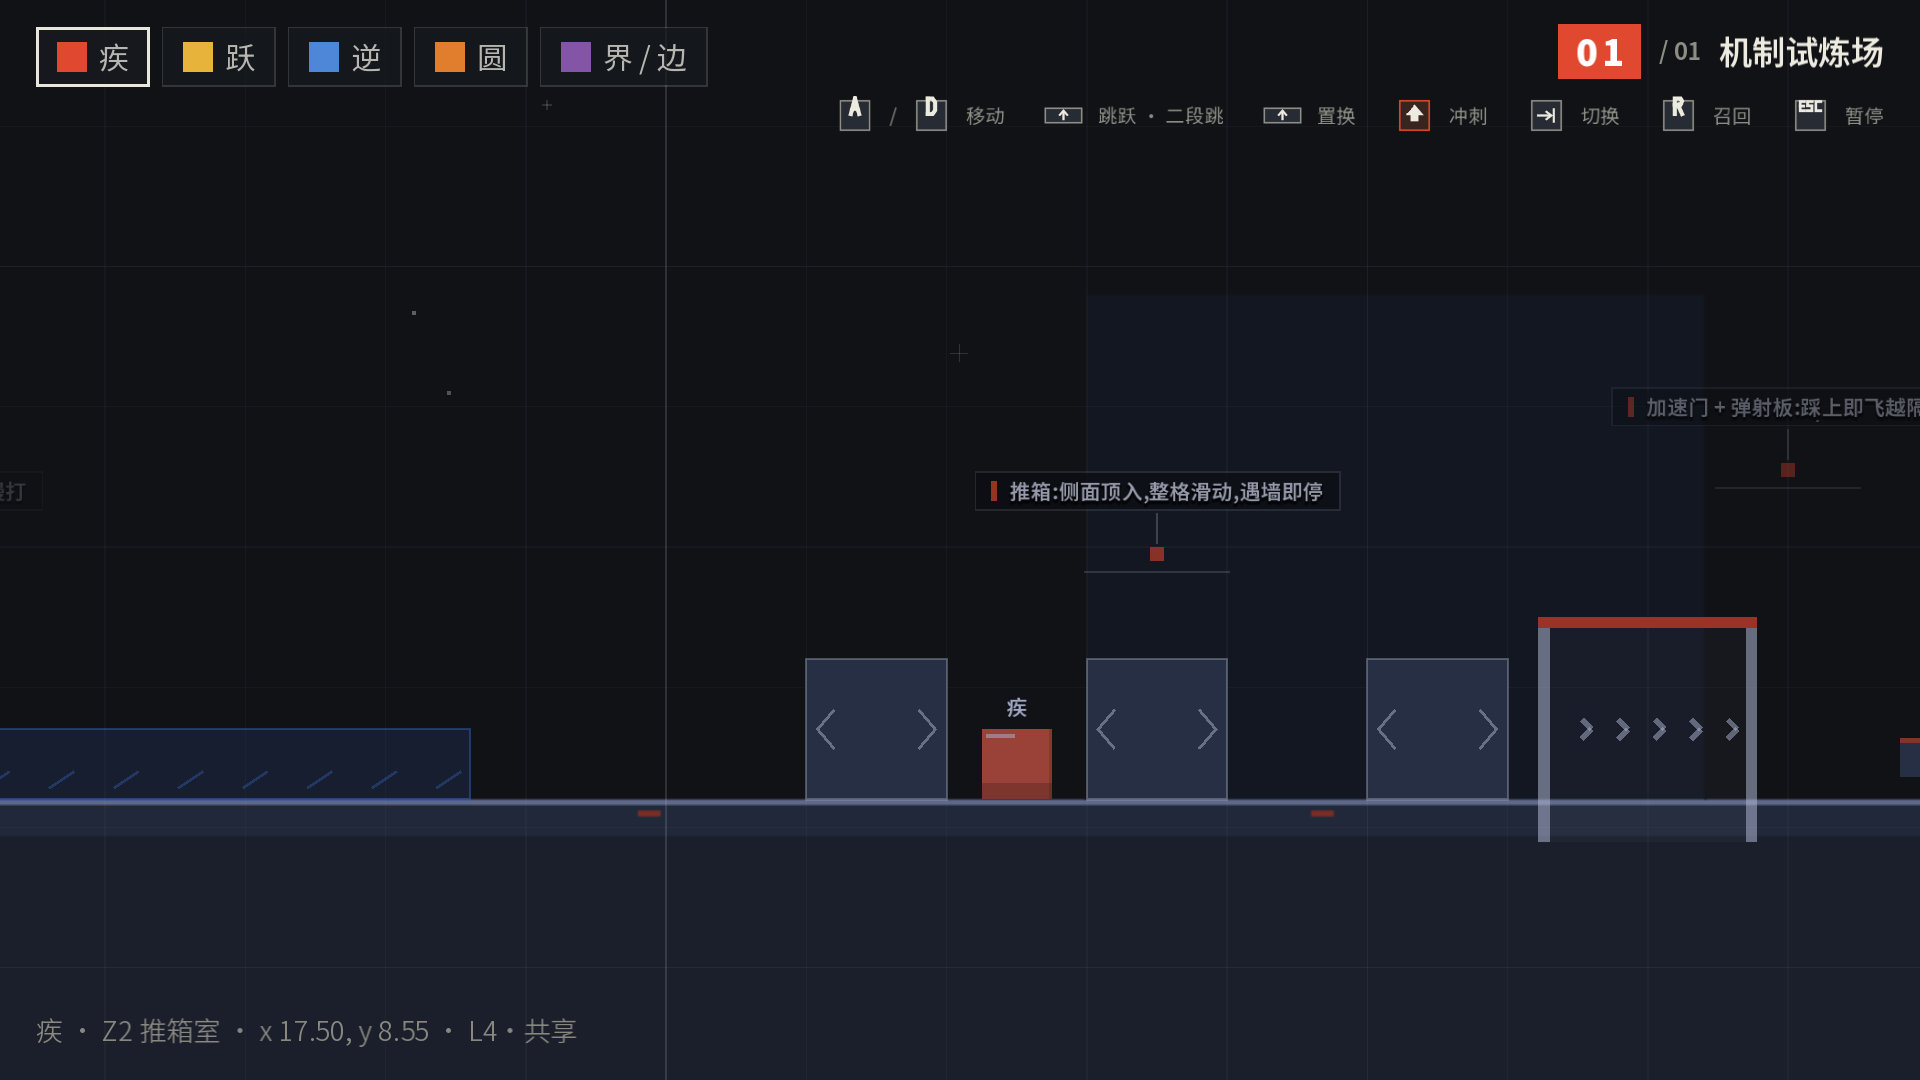
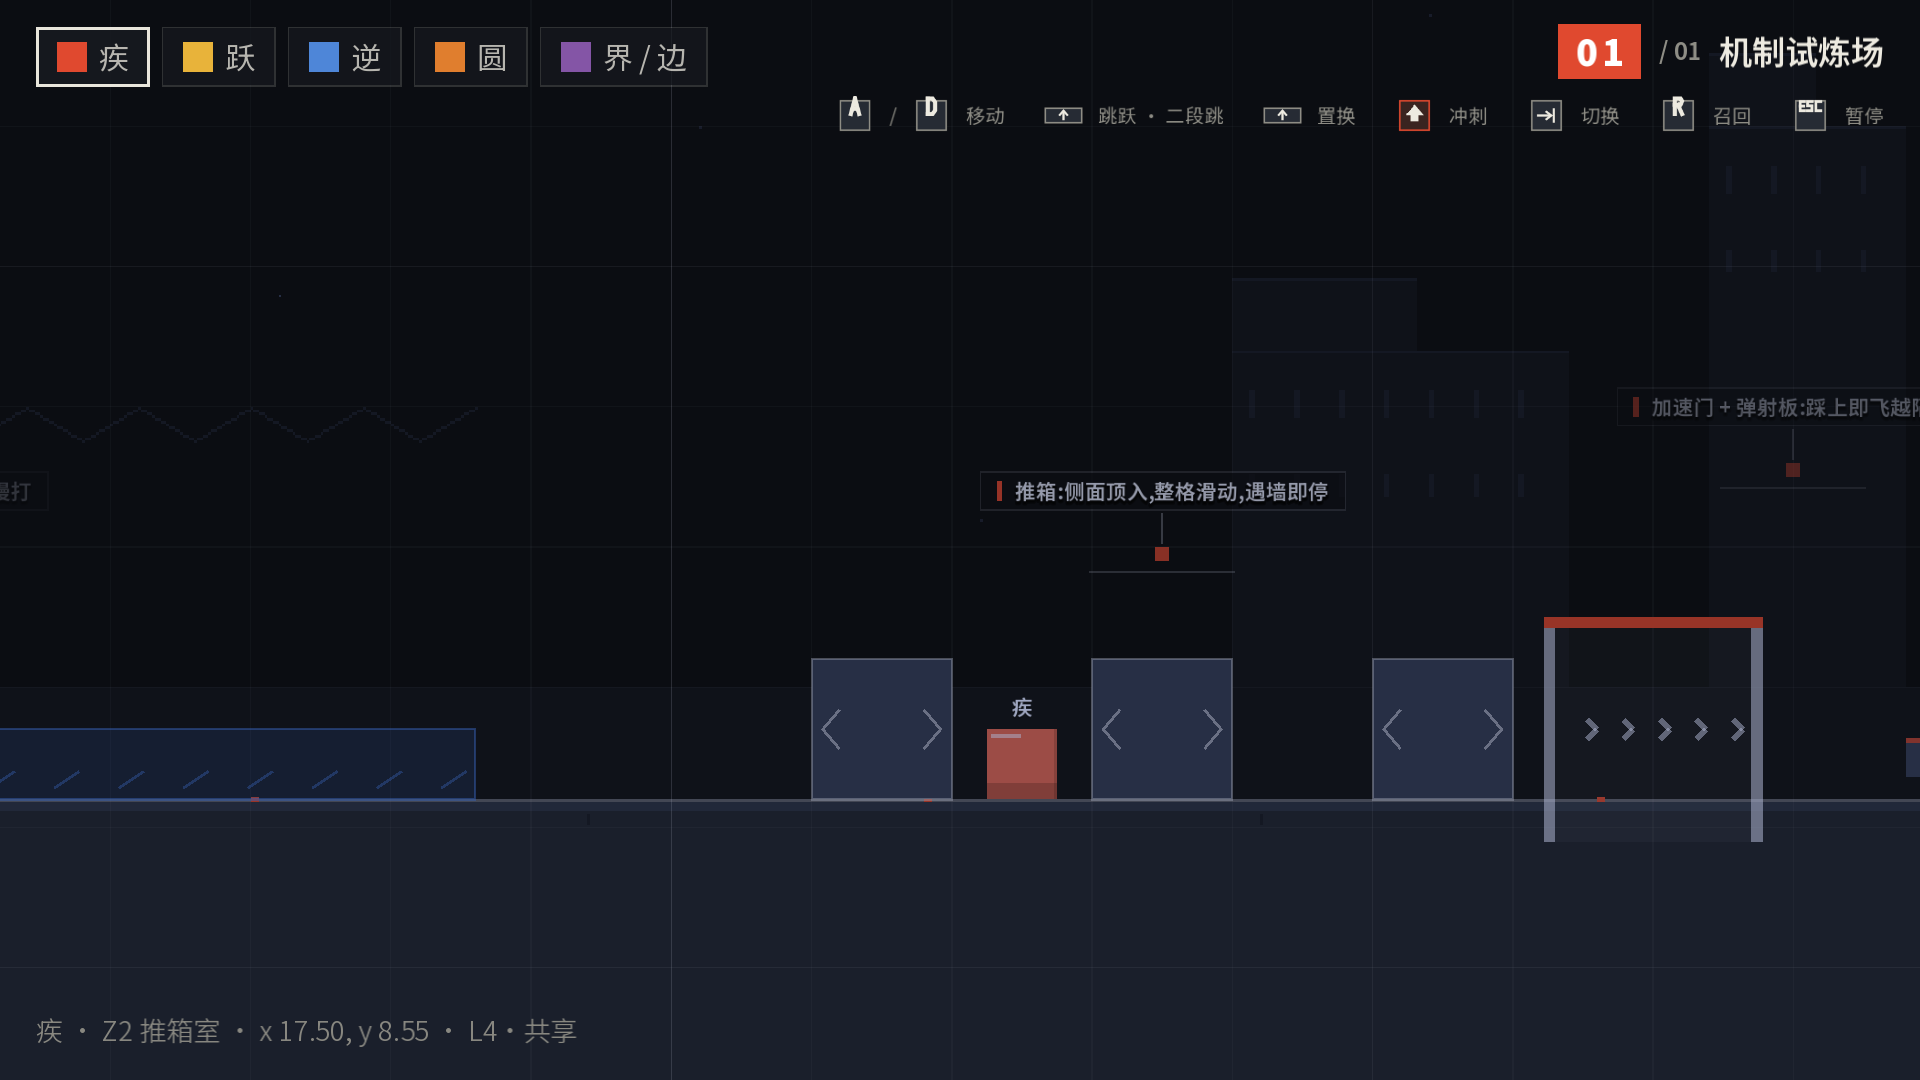
N2 同网直连实装 + 双人入口按设备分流(v0.29.0):「双人试炼」点击先判断设备——桌面给同设备/跨设备两项,触屏设备同设备置灰(移动端不可用,§3 首版条款交互化);新 NetRoomLayer 房间流程页(流程带 30,Flow 型四步:选择→创建(本机 IP 常驻+满员解锁开演)→加入(附近房间周期搜索+版本/满员门禁+手动 IP 兜底)→已连接等待),Esc 逐级返回;Main 增 ROOM 态与 net_* 六回调(绑定集点亮/客机取景镜像/召回主机执行/通关回房间不自动进下一关/客机掉线弹回房间/主机掉线弹回菜单),事件漏斗=死亡/到站/离站/进门主机权威 RPC 复现,客

Changed region(s): [[0.0, 0.5806, 1.0, 0.7639], [0.5, 0.4278, 0.6875, 0.5194], [0.8438, 0.3667, 1.0, 0.3972]]

diff --git a/docs/design/art-style.md b/docs/design/art-style.md
@@ -69,17 +69,19 @@ M8b 补充档 ≤12px 限巨构大落差坠落 / 复合事件(实机手感回写
 - [ ] 动效缓动在 M1 白名单内;时长符合 M2 档位
 - [ ] 红色使用点每屏 ≤ 3 处角色(强调、刻度、焦点各一)
 - [ ] 图标含 `<text>` 的为 0(ThorVG 限制)
-- [ ] 地图零贴图:全部 `_draw()` 程序化绘制;aseprite 瓦片管线已废止(§6),无游离的像素素材引用
-- [ ] 唯一像素素材例外 = 档案几何 UI 插图(§6.1):仅 assets/archive/,
-	  地图与实体不得引用
+- [ ] 地图渲染两轨:默认全 `_draw()` 程序化;测试关可挂 aseprite 地图皮
+	  MapSkin(§6.2,唯一贴图地形管线);除此之外无游离的像素素材引用
+- [ ] aseprite 例外两处 = 档案几何插图(§6.1,仅 assets/archive/)+
+	  关卡地图皮(§6.2,仅 assets/levels/,PNG 必须半分辨率);
+	  地图与实体不得引用其余像素素材
 
-## 6. 美术素材规范 · MAP ART(v0.13.2 修订:全程序化,aseprite 管线废止)
+## 6. 美术素材规范 · MAP ART(v0.29 修订:程序化为默认 + MapSkin 测试关例外)
 
-> 状态:**现行(v0.13.2)**。2026-09-09 用户决策:地图依旧**全部使用
-> `_draw()` 程序化绘制**,不再使用 aseprite 内容——v0.12 绘制的瓦片
-> 图集与实体雪碧图管线(源 `assets/art/tiles/*.aseprite`、存档
-> `assets/tiles/*.png`)整体废止,源文件留档但**不再导入引擎、不再维护**
-> (目录已加 `.gdignore`,不进导出包)。本文保留渲染语义规范:
+> 状态:**现行(v0.29)**。默认管线仍是 `_draw()` 程序化绘制(2026-09-09
+> 用户决策);v0.27 起"测试关美术层"以 **MapSkin 地图皮**形式回归为
+> **唯一贴图地形例外**(用户指令"测试关全部重制,地图采用 aseprite 绘制"),
+> v0.29 把契约成文并修复双倍放大遗留 bug。档案插图例外见 §6.1,
+> 地图皮契约见 §6.2。
 
 ### 6.1 唯一例外:档案几何插图(v0.19 立)
 
@@ -101,8 +103,45 @@ M8b 补充档 ≤12px 限巨构大落差坠落 / 复合事件(实机手感回写
   导出后缀 _f2/_f3;图鉴以 Timer 按条目周期播放,静态两态机关仍为
   手动切换的静帧。
 
-- **地图渲染 = 引擎侧 `_draw()`(唯一管线)**:平台 / 曲面 / 移动构件 /
-  动态构件 / 网格全部由 `level_builder.gd` 程序化绘制;
+### 6.2 关卡地图皮 · MAPSKIN(v0.29 契约成文;v0.27 首例)
+
+- **定位**:测试关美术层例外——`LevelDef.art` 非空时,aseprite 地图皮
+  接管**地形外观**,`LaneRenderer` 让位;碰撞照走平台组件,机关物 /
+  玩家仍引擎 `_draw()`(structures.md §0.5 双轨之测试关例外)。
+  仅用于机制试炼场;正式关卡是否启用待机制期后另行决策。
+- **管线与尺寸契约(严格)**:`assets/art/levels/<level>.aseprite` 源
+  → 导出 PNG 至 `assets/levels/<level>.png` → 引擎 Sprite2D
+  (`scale ×2`,`TEXTURE_FILTER_NEAREST`,`z=-1` 沉到网格下)。
+  **PNG = 半分辨率 = 关卡世界尺寸 ÷2**(1 aseprite 像素 = 2 引擎像素);
+  严禁导出全分辨率(v0.27 曾因此双倍放大,2026-09-12 探针帧实证修复)。
+  换 PNG 内容后必须重跑 `--headless --import`。
+- **画布层栈(自底向上,首例 trial_v5)**:
+  1. `bg_deep` — 墨底 + 硬边值阶横带(禁渐变,用值阶做氛围梯度;
+	 目标区可整体提亮一至两档,如 Z5 归门光柱);
+  2. `bg_towers` — 远景退台巨塔剪影(INK_2 体 + INK_3 顶缘/窗槽,
+	 与 Backdrop 折线山脊同档,不得更高);
+  3. `bg_mid` — 世界线构:管线 / 桁架(折线禁弧)/ 区段纹样
+	 (雪原折线 / 推箱导轨)/ 传送菱标 / 地标环(完整几何圆,允许);
+  4. `terrain` — 石板本体 `#262B34` + 内缘受光带 `#313845` + 板缝 +
+	 悬浮件 45° 裙角,**逐像素对齐碰撞矩形**;
+  5. `edge` — 可站缘纸白 30%(合成 ≈`#626467`)/ 逆可站天花底缘
+	 逆蓝 30%(≈`#324665`);
+  6. `accent` — 红刻度节奏(每 480 引擎 px 一处)+ 危险坑肩警示;
+  7. `fx` — 星阵点(低亮不与平台争夺);
+  8. `guide` — 隐藏层:碰撞框参考(**导出前确认不可见**——
+	 2026-09-12 实测导出会合成可见层,漏关即污染成品)。
+- **绘制禁区**:不画机关物 / 玩家 / 磁界 / 网格 / 分区标注 / 教学牌
+  (全部引擎负责);不写文字(ThorVG 折线字形纪律同源);无圆角、
+  无渐变、无模糊投影(§2 全局适用)。
+- **双端**:mobile renderer 实测通过(桌面);真机 K60 走查随下次
+  打包顺带。半分辨率 ×2 整数放大下 Android 精度无损(NEAREST)。
+- **首例**:`assets/art/levels/trial_v5.aseprite`「长卷 · 归门圣环」
+  (v0.29 重绘:值阶 / 巨塔 / 桁架 / 雪原折线 / 圣环从壁龛后升起,
+  参考系转译见 §9)。
+
+- **地图渲染默认 = 引擎侧 `_draw()`(非 MapSkin 关卡的唯一管线)**:
+  平台 / 曲面 / 移动构件 / 动态构件 / 网格全部由
+  `level_builder.gd` 程序化绘制;
   石板 `#262B34` / 亮面板 `#313845` / 动板 `#2B3140·#3A4254`、
   顶缘线 PAPER·30%(动板 PAPER·42%)、左缘红刻度块每 480px 一处;
   立块底缘 45° 裙角保留;**投影不再手绘**(v0.19 撤硬投影暗块),
@@ -172,3 +211,18 @@ M8b 补充档 ≤12px 限巨构大落差坠落 / 复合事件(实机手感回写
 - **待办/风险**:移动端全屏光照 pass 开销按"测量先行"纪律上真机 profile;
   若吃紧,先调大 `DirectionalLight2D.max_distance` 剔远景阴影或降遮挡体
   数量,不动风格参数。
+
+## 9. 参考系转译 · JOURNEY / GRIS / THOMAS WAS ALONE(v0.29 登记)
+
+> MapSkin v2 绘制前做的三作风格调研结论,登记为**后续 aseprite 素材的
+> 转译依据**:只借"氛围构造法",不借色板与柔质;冲突处一律以 §1/§2 为准。
+
+| 来源 | 值得借的构造法 | 转译为本项目(§1/§2 约束下) | 明确不借 |
+|---|---|---|---|
+| **Journey**(风之旅人)| 分层剪影景深(远山/中景/近景三级互不争抢);目的地"圣光"叙事——终点在构图与亮度上被预支;沙丘式大留白与横向长卷节奏 | 值阶分层剪影(bg_towers 塔群 ≤ INK_3,越远越暗);归门 = 圣环 + 值阶光柱(Z5 提前可见);长条关卡按"节拍"分配纹样密度 | 柔光辉光、有机曲线沙丘(→ 硬边值阶 + 45° 折线) |
+| **GRIS**(灰色)| 色彩即情绪章节(幕 = 色彩阶段);同一场景内用极克制的变化累积情绪 | 与既有七幕主题差分(§7)同构,此处互为印证;单幕内部用**硬边值阶**(每档一个灰阶色,禁渐变)做情绪梯度 | 水彩晕染、大面积渐变底(→ 海报式分层) |
+| **Thomas Was Alone**(孤独的托马斯)| 深底亮缘的极致可读性:角色永远是全场最饱和的形;抽象几何靠动效与台词获得人格;灰箱关卡即美术 | 墨底 + 地形顶缘纸白线(角色四色在暗场上唯一高饱和);几何体人格已由 motion grammar 承担,皮肤保持安静 | 角色发光描边(→ 引擎光影 + 色彩纪律即可) |
+
+- **统一纪律重申**:三作的共同成功点是"少而一致",与本仓 §7 幕差分
+  "统一不歧化"同源;任何参考系引入的新母题(圣环 / 光柱 / 值阶带)
+  须登记进 §6.2 层栈清单后才可在 MapSkin 中复用。

diff --git a/CHANGELOG.md b/CHANGELOG.md
@@ -3,6 +3,48 @@
 格式:每个版本一节,分类为 新增 / 变更 / 修复 / 移除。
 发版规范见 docs/UPDATE.md。
 
+## v0.29.0(2026-09-12)
+
+> **地图皮 MapSkin v2 重绘 + 素材链补全**:以 Journey / GRIS / Thomas Was
+> Alone 三作做风格转译(构成主义纪律不减),重绘试炼场 v5 地图皮;
+> 顺手揪出并修掉 **v0.27 起 MapSkin 被双倍放大渲染**的管线 bug——
+> 代码契约是"PNG = 半分辨率(世界尺寸 ÷2),引擎 ×2 还原",
+> 但 PNG 一直导成全分辨率,导致地图从未按正确比例显示过。
+
+### 新增
+- **MapSkin v2「长卷 · 归门圣环」**(源 `assets/art/levels/trial_v5.aseprite`,
+  3200×540 半分辨率,8 层栈):bg_deep 值阶横带(GRIS:值阶即情绪,
+  禁渐变以硬边值阶替代)+ Z5 归门光柱 / bg_towers 退台巨塔剪影群
+  (Journey 层次剪影 × 构成退台)/ bg_mid 管线·Z4 桁架·Z1 雪原折线·
+  Z2 推箱导轨·Z3 传送菱标·归门圣环(完整几何圆 ×2,从壁龛后升起)
+  / terrain 石板体 + 受光带 + 板缝 + 悬浮裙角 / edge 可站缘纸白 30%·
+  天花底缘逆蓝 30% / accent 红刻度节奏(480 引擎 px)+ 坑肩警示 /
+  fx 星阵 / guide 隐藏碰撞框。全部碰撞矩形逐像素对齐,调色板与
+  ui.gd 同源;机关物仍由引擎 `_draw()`(皮肤不重复画)。
+- **tiles_v2 补 aseprite 母版三件**:`mech_push_box` / `mech_ski_patch` /
+  `mech_launch_pad`(200×200,层规同批;此前档案插图无源文件),
+  导出同步覆盖 `assets/archive/` 三张 PNG(视觉语言与原插图一致)。
+- **tiles_v2/png/ 参考导出补齐**:`mech_portal` 三帧(此前仅存 aseprite);
+  `overview.png` 重拼(19 件土建单帧,含三件新母版)。
+- **art-style.md §6.2「关卡地图皮 · MAPSKIN」契约成文** + §9「参考系
+  转译」(Journey / GRIS / TWA → 本项目纪律的允许与禁止清单)。
+
+### 修复
+- **MapSkin 双倍放大(v0.27 遗留)**:`LevelBuilder` 契约为 PNG 半分辨率
+  × `scale ×2`,但 PNG 自 v0.27 起导出为全分辨率 6400×1080,入引擎后
+  再 ×2 等于两倍放大且错位——本次以纯绿探针帧实证(探针色带按 ×2
+  位置成像),改回 **3200×540 半分辨率导出**,对齐代码契约。
+- **`skin.texture_filter = TEXTURE_FILTER_NEAREST`** 显式声明(LevelBuilder):
+  ×2 整数放大禁柔化,防御画布默认线性过滤,像素纪律成文。
+
+### 变更
+- `assets/levels/trial_v5.png` 按 v2 重绘覆盖(3200×540);
+- `assets/archive/` 推箱 / 滑雪带 / 弹射板三张插图由新母版重导覆盖;
+- 门禁:grid_check PASS(11 warn 均为既有门 y 对齐建议,无新增)、
+  recalltest 3 PASS、laneshot 正常、autoshot / doorshot 双视点
+  引擎内截图验收(Z0 出生 / Z5 归门圣环)。真机 K60 走查建议随下次
+  打包顺带(纯视觉资产,桌面 mobile renderer 已验)。
+
 ## v0.28.1(2026-09-12)
 
 > **游戏图标重绘 v3「构成徽章」**:新设计 + 多端多尺寸适配——补齐
@@ -31,6 +73,42 @@
 ### 移除
 - 旧图标源 `assets/art/icon_jasmine.aseprite`(四叶茉莉 v2,
   被 v3 构成徽章取代)。
+
+## v0.29.0(2026-09-12)
+
+> **N2 同网直连实装 + 双人入口分流**:「双人试炼」按设备分流——桌面
+> 可选同设备 / 跨设备,移动端同设备置灰;跨设备走同网直连(LAN 搜索
+> + 手动 IP),主机权威同步开局。后端(NetSession / LanBeacon /
+> PeerFactory)为 v0.22 预埋,本版完成 UI 与主控接线。
+
+### 新增
+- **双人联接方式选择面板**(menu_layer):点「双人试炼」先判断设备——
+  桌面给「同设备双人(同屏分键)/ 跨设备双人(同网直连)」两项;
+  触屏设备「同设备」置灰并注明"移动端不可用 · 同屏分区需键鼠 / 双手柄"
+  (net.md §3 首版条款的用户交互化)。
+- **房间流程页**(net_room_layer,流程带 30,Flow 型四步):选择 →
+  创建房间(主机:本机 IP 常驻展示 + 等待对手 + 开演钮满员解锁)→
+  加入房间(附近房间列表周期搜索 + 版本 / 满员门禁标灰 + 手动 IP 兜底)
+  → 已连接等待开演;Esc 逐级返回,状态行接 net_message。
+- **主控联机回调**(main):net_post_setup(绑定集点亮 / 客机取景镜像)、
+  net_recall(客机召回主机执行)、net_show_complete / net_back_to_room
+  (通关回房间,不自动进下一关)、net_peer_lost(客机掉线 → 整队弹回
+  房间,§11 待议项临时拍板)、net_host_lost(主机掉线 → 弹回菜单 +
+  明确提示);Main.State 增 ROOM,会话中枢与房间页由 Main 创建(path
+  两端一致,RPC 才能寻址)。
+- **绑定集内切换**(net.md §8 首版对半分):主机在自家几何体间切本地
+  操控(roster.switch_to 绑定集过滤);客机切输入上传槽(_net_active),
+  名牌 / 芯片 / 相机取景镜像跟随;召回经 request_recall 主机权威执行。
+- **联机事件漏斗**(net.md §6):死亡 / 到站 / 离站 / 进门在 Main 回调
+  收口,主机权威经可靠 RPC 客机复现;客机侧死亡判定与到站编排抑制
+  (check_deaths / check_all_arrived 主机权威守卫),终点门客机抑制已预埋。
+- **暂停菜单联机态**(预埋接线):联机局内隐藏「重新开始」,「返回标题」
+  语义变「离开房间」。
+
+### 变更
+- start_level 两端装配完成后调用 NetSession.on_level_built(算定绑定 /
+  标注 remote_driven / 注入输入源,net.md §6 生成免 Spawner 收尾)。
+- quit_to_menu 联机局内先散房(关 peer / 停信标)。
 
 ## v0.28.2(2026-09-12)
 

diff --git a/docs/ASSETS.md b/docs/ASSETS.md
@@ -22,7 +22,7 @@
 | 关卡(在演) | 1(机制试炼场 v4,分区 Z0–Z5)| `level_data.gd` LEVELS |
 | 关卡(历史文件未接线) | 1(伍试水 · 界与边)| `levels/pair_trial.json` |
 | 图鉴插图(入引擎) | 34 张 png | `assets/archive/` |
-| aseprite 源 | 23 个(tiles_v2 21 + icon_construct + levels/trial_v5)| `assets/art/`、`assets/art/levels/` |
+| aseprite 源 | 26 个(tiles_v2 24 + icon_construct + levels/trial_v5)| `assets/art/`、`assets/art/levels/` |
 | svg 图标 | 69 个(7 类)| `assets/svg/` |
 | 字体 | 1(NotoSansSC-VF)| `assets/fonts/` |
 
@@ -197,8 +197,8 @@
 |---|---|---|---|
 | 几何体肖像 svg | 5 | `assets/svg/characters/` | dash / spring / fall / roll / pair |
 | 图鉴插图 png | **34** | `assets/archive/` | 建筑 6 + 几何体 5 + 机关 23 帧(含 `_f2/_f3` 动态帧);唯一入引擎目录,统一 200×200 |
-| 图鉴 aseprite 源 | 21 | `assets/art/tiles_v2/` | `bld_*` 6 + `geo_*` 5 + `mech_*` 10 |
-| 关卡美术层 | 1 | `assets/levels/trial_v5.png`(源 `assets/art/levels/trial_v5.aseprite`)| 试炼场 v5 管道测试道地形外观(v0.27,aseprite 地图首例)|
+| 图鉴 aseprite 源 | 24 | `assets/art/tiles_v2/` | `bld_*` 6 + `geo_*` 5 + `mech_*` 13(v0.29 补 push_box / ski_patch / launch_pad 母版)|
+| 关卡美术层 | 1 | `assets/levels/trial_v5.png`(源 `assets/art/levels/trial_v5.aseprite`,**半分辨率 3200×540**)| 试炼场 v5 地图皮「长卷 · 归门圣环」(v0.29 重绘,契约 art-style.md §6.2;修复 v0.27 双倍放大)|
 | 游戏图标 | 7 | `icon.png`(256)+ `icon_192` + `icon_fg/bg/mono_432`(源 `assets/art/icon_construct.aseprite`)| 构成徽章 v3:墨底幽灵菱线 + 构成红斜面菱芯 + 四纸白卫星(菱/三角/圆/方);432 母版 ×4 整数导出,安全区内构图(v0.28.1,Android 启动器四字段已接线)|
 | svg 图标 | **69** | `assets/svg/` | arrows 7 / audio 4 / buttons 18 / characters 5 / icons 14 / keys 10 / objects 5 / ui 6 |
 | svg 场景物件 | 5 | `assets/svg/objects/` | exit-door / platform / portal / spike / spring |

diff --git a/docs/design/net.md b/docs/design/net.md
@@ -1,6 +1,6 @@
 # 多人联机设计 · NET
 
-> 状态:定稿(2026-09-09 探讨定稿,联网调研同日完成;技术方案与里程碑见 `docs/ROADMAP.md` §2–3);**N0 已实装 + N1 已实装(v0.28.0,`--dualtest` 门禁)+ N2/N3 骨架预埋未接线**
+> 状态:定稿(2026-09-09 探讨定稿,联网调研同日完成;技术方案与里程碑见 `docs/ROADMAP.md` §2–3);**N0 已实装 + N1 已实装(v0.28.0,`--dualtest` 门禁)+ N2 已实装(v0.29.0,双人入口按设备分流 + 房间流程页 + 事件漏斗;真机双端联测进行中)+ N3 骨架预埋未接线**
 > 一句话:**三档连接**(同屏双人 → 同网直连 → 异网中继)共用同一套实体与输入槽;
 > **主机权威**物理,事件可靠 RPC;**ENet 一贯穿底**,中继服转发全量流量。
 > 玩法基线:联机首版 = **2 人合作闯关**,沿用现有关卡与四几何体。
@@ -71,7 +71,15 @@
   双活禁切 / 死亡保操控 / 双体到站);与联机会话互斥
   (NetSession 在局时拒绝进入双活)。
 
-## 4. 第二档 · 同网直连(LAN,零服务器)
+## 4. 第二档 · 同网直连(LAN,零服务器)——已实装(v0.29.0)
+
+> 实装落点:菜单「双人试炼」按设备分流(桌面 = 同设备 / 跨设备两项;
+> 触屏设备同设备置灰,net.md §3 首版条款);房间流程页 = 流程带 30 的
+> Flow 型页面(`scripts/ui/net_room_layer.gd`:选择 → 创建 → 加入 →
+> 等待),Esc 逐级返回;主控回调 `Main.net_*` 六件与绑定集内切换见
+> CHANGELOG v0.29.0。通关流转 = 回房间等待主机再开演,不自动进下一关。
+> 客机掉线处置采用 §11 待议项的**临时拍板:整队弹回房间**(可再开演)。
+> 待办:二维码拉起、双触屏分区、真机双端全链联测。
 
 ### 4.1 连接三路径(可靠性阶梯)
 

diff --git a/README.md b/README.md
@@ -11,7 +11,7 @@
 分层、机关物、几何体特性全部达到完美与正常后,才重启关卡与剧情设计(2026-09-10 决策)。
 **肉鸽模式「重跑 RE-RUN」暂入休眠**:系统代码保留,入口随机制达标后重开。
 
-当前版本 **v0.28.2**(唯一来源 `scripts/core/version.gd`,变更明细见 [CHANGELOG.md](CHANGELOG.md))。
+当前版本 **v0.29.0**(唯一来源 `scripts/core/version.gd`,变更明细见 [CHANGELOG.md](CHANGELOG.md))。
 
 ## 预览
 
